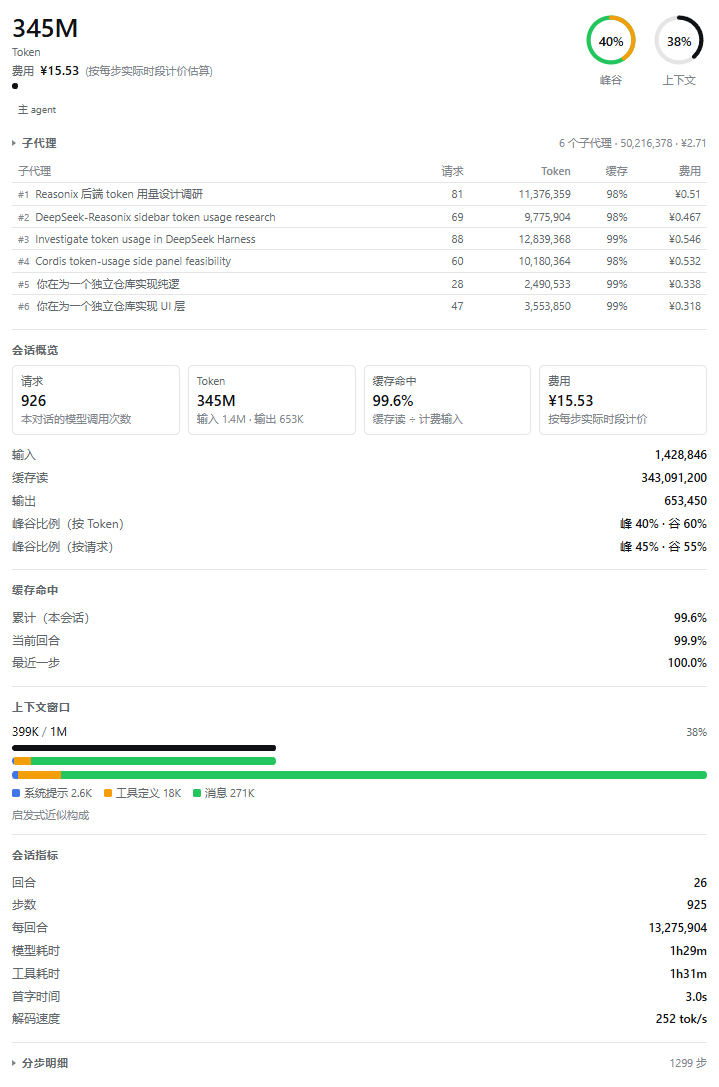
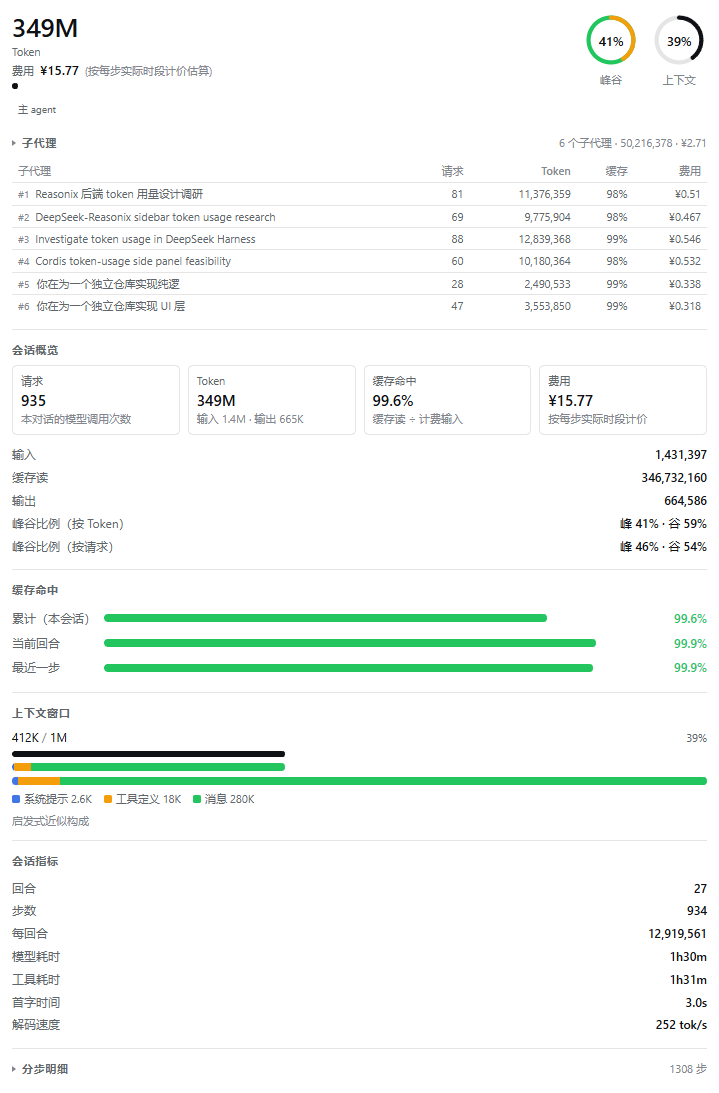
feat: cache-hit bars on a power scale with status-coloured rates

diff --git a/dist/client.js b/dist/client.js
@@ -1,4 +1,4 @@
-/* dsh-usage-insights v0.10.0 — generated by scripts/build.mjs; do not edit. */
+/* dsh-usage-insights v0.10.1 — generated by scripts/build.mjs; do not edit. */
 window.__ModuleLoader__.load({
   id: "dsh-usage-insights",
   factory(require) {
@@ -1035,6 +1035,19 @@ function formatBeijingTime(atMs) {
   return `${pad2(month)}-${pad2(day)} ${pad2(hours)}:${pad2(minutes)}`;
 }
 
+// src/lib/hit-scale.ts
+var HIT_SCALE_EXPONENT = 0.3;
+function hitBarRatio(ratio) {
+  const clamped = Math.min(1, Math.max(0, ratio));
+  return 1 - (1 - clamped) ** HIT_SCALE_EXPONENT;
+}
+function hitLevel(ratio) {
+  if (ratio === null) return "none";
+  if (ratio >= 0.9) return "good";
+  if (ratio >= 0.7) return "warn";
+  return "bad";
+}
+
 // src/client/styles.ts
 var css2 = `
 .dsu-root {
@@ -1309,6 +1322,75 @@ var css2 = `
 .dsu-stat-hint {
   font-size: 11px;
   line-height: 1.35;
+  color: var(--dsw-alias-label-tertiary);
+}
+
+.dsu-hits {
+  display: flex;
+  flex-direction: column;
+}
+
+.dsu-hit {
+  display: flex;
+  align-items: center;
+  gap: 8px;
+  min-width: 0;
+  padding: 4px 0;
+}
+
+.dsu-hit-label {
+  flex: 0 0 auto;
+  min-width: 84px;
+  color: var(--dsw-alias-label-secondary);
+}
+
+.dsu-hit-track {
+  flex: 1 1 auto;
+  min-width: 0;
+  height: 8px;
+  overflow: hidden;
+  border-radius: 999px;
+  background: var(--dsw-alias-bg-layer-2);
+}
+
+.dsu-hit-fill {
+  height: 100%;
+  border-radius: 999px;
+}
+
+.dsu-hit-fill[data-level='good'] {
+  background: var(--dsw-alias-state-success-primary);
+}
+
+.dsu-hit-fill[data-level='warn'] {
+  background: var(--dsw-alias-state-warn-primary);
+}
+
+.dsu-hit-fill[data-level='bad'] {
+  background: var(--dsw-alias-state-error-primary);
+}
+
+.dsu-hit-value {
+  flex: 0 0 auto;
+  min-width: 46px;
+  text-align: right;
+  font-variant-numeric: tabular-nums;
+  font-weight: 500;
+}
+
+.dsu-hit-value[data-level='good'] {
+  color: var(--dsw-alias-state-success-primary);
+}
+
+.dsu-hit-value[data-level='warn'] {
+  color: var(--dsw-alias-state-warn-label);
+}
+
+.dsu-hit-value[data-level='bad'] {
+  color: var(--dsw-alias-state-error-primary);
+}
+
+.dsu-hit-value[data-level='none'] {
   color: var(--dsw-alias-label-tertiary);
 }
 
@@ -1846,6 +1928,15 @@ function ProgressBar(props) {
   const ratio = props.ratio === null ? 0 : Math.min(1, Math.max(0, props.ratio));
   return /* @__PURE__ */ (0, import_jsx_runtime2.jsx)("div", { className: "dsu-progress", role: "img", "aria-label": formatPercent(ratio), children: /* @__PURE__ */ (0, import_jsx_runtime2.jsx)("div", { className: "dsu-progress-fill", style: { width: `${ratio * 100}%` } }) });
 }
+function HitBar(props) {
+  const level = hitLevel(props.ratio);
+  const width = props.ratio === null ? 0 : hitBarRatio(props.ratio);
+  return /* @__PURE__ */ (0, import_jsx_runtime2.jsxs)("div", { className: "dsu-hit", children: [
+    /* @__PURE__ */ (0, import_jsx_runtime2.jsx)("span", { className: "dsu-hit-label", children: props.label }),
+    /* @__PURE__ */ (0, import_jsx_runtime2.jsx)("div", { className: "dsu-hit-track", children: props.ratio !== null && /* @__PURE__ */ (0, import_jsx_runtime2.jsx)("div", { className: "dsu-hit-fill", "data-level": level, style: { width: `${width * 100}%` } }) }),
+    /* @__PURE__ */ (0, import_jsx_runtime2.jsx)("span", { className: "dsu-hit-value", "data-level": level, children: props.ratio === null ? "\u2014" : formatPercent(props.ratio) })
+  ] });
+}
 function CompositionProgress(props) {
   const ratio = props.ratio === null ? 0 : Math.min(1, Math.max(0, props.ratio));
   const description = props.segments.map((segment) => `${segment.label} ${formatTokens(segment.tokens)}`).join(" \xB7 ");
@@ -2165,7 +2256,6 @@ function SessionPanel(props) {
   ];
   const avgPerTurn = view.turns > 0 ? Math.round(view.totalTokens / view.turns) : 0;
   const contextLabel = context.ratio === null ? "\u2014" : formatPercent(context.ratio);
-  const percentOf = (ratio) => ratio === null ? "\u2014" : formatPercent(ratio);
   const peakShare = view.bandShare === null ? null : peakTokenShare(view.bandShare);
   const peakRingLabel = peakShare === null ? "\u2014" : formatPercent(peakShare);
   return /* @__PURE__ */ (0, import_jsx_runtime4.jsxs)("div", { className: "dsu-root", children: [
@@ -2275,10 +2365,10 @@ function SessionPanel(props) {
         ] })
       ] })
     ] }),
-    view.hasUsage && /* @__PURE__ */ (0, import_jsx_runtime4.jsx)(Section, { title: t("section.cacheHit"), children: /* @__PURE__ */ (0, import_jsx_runtime4.jsxs)("div", { className: "dsu-rows", children: [
-      /* @__PURE__ */ (0, import_jsx_runtime4.jsx)(Row, { label: t("cacheHit.total"), value: percentOf(view.cacheHits.total) }),
-      /* @__PURE__ */ (0, import_jsx_runtime4.jsx)(Row, { label: t("cacheHit.turn"), value: percentOf(view.cacheHits.turn) }),
-      /* @__PURE__ */ (0, import_jsx_runtime4.jsx)(Row, { label: t("cacheHit.step"), value: percentOf(view.cacheHits.step) })
+    view.hasUsage && /* @__PURE__ */ (0, import_jsx_runtime4.jsx)(Section, { title: t("section.cacheHit"), children: /* @__PURE__ */ (0, import_jsx_runtime4.jsxs)("div", { className: "dsu-hits", children: [
+      /* @__PURE__ */ (0, import_jsx_runtime4.jsx)(HitBar, { label: t("cacheHit.total"), ratio: view.cacheHits.total }),
+      /* @__PURE__ */ (0, import_jsx_runtime4.jsx)(HitBar, { label: t("cacheHit.turn"), ratio: view.cacheHits.turn }),
+      /* @__PURE__ */ (0, import_jsx_runtime4.jsx)(HitBar, { label: t("cacheHit.step"), ratio: view.cacheHits.step })
     ] }) }),
     (view.hasUsage || hasContext) && /* @__PURE__ */ (0, import_jsx_runtime4.jsx)(Section, { title: t("section.context"), children: context.windowTokens === null ? /* @__PURE__ */ (0, import_jsx_runtime4.jsx)(InlineMessage, { children: t("context.capacityUnknown") }) : /* @__PURE__ */ (0, import_jsx_runtime4.jsxs)("div", { className: "dsu-ctx", children: [
       context.usedTokens === null ? /* @__PURE__ */ (0, import_jsx_runtime4.jsx)(InlineMessage, { children: t("context.notReported") }) : /* @__PURE__ */ (0, import_jsx_runtime4.jsxs)("div", { className: "dsu-ctx-line", children: [

diff --git a/src/client/SessionPanel.tsx b/src/client/SessionPanel.tsx
@@ -18,8 +18,8 @@ import {
 } from '../lib/format'
 import { peakTokenShare } from '../lib/band-share.ts'
 import {
-  bandShareText, ChildAgentsTable, CompositionBar, CompositionProgress, InlineMessage, ProgressBar, Ring, Row,
-  Section, Stat, StepTable, StyleTag,
+  bandShareText, ChildAgentsTable, CompositionBar, CompositionProgress, HitBar, InlineMessage, ProgressBar,
+  Ring, Row, Section, Stat, StepTable, StyleTag,
 } from './components'
 import type { CompositionSegment } from './components'
 
@@ -76,7 +76,6 @@ export function SessionPanel(props: SessionPanelProps): JSX.Element {
     ]
   const avgPerTurn = view.turns > 0 ? Math.round(view.totalTokens / view.turns) : 0
   const contextLabel = context.ratio === null ? '—' : formatPercent(context.ratio)
-  const percentOf = (ratio: number | null): string => ratio === null ? '—' : formatPercent(ratio)
   const peakShare = view.bandShare === null ? null : peakTokenShare(view.bandShare)
   const peakRingLabel = peakShare === null ? '—' : formatPercent(peakShare)
   return (
@@ -206,10 +205,10 @@ export function SessionPanel(props: SessionPanelProps): JSX.Element {
       )}
       {view.hasUsage && (
         <Section title={t('section.cacheHit')}>
-          <div className="dsu-rows">
-            <Row label={t('cacheHit.total')} value={percentOf(view.cacheHits.total)} />
-            <Row label={t('cacheHit.turn')} value={percentOf(view.cacheHits.turn)} />
-            <Row label={t('cacheHit.step')} value={percentOf(view.cacheHits.step)} />
+          <div className="dsu-hits">
+            <HitBar label={t('cacheHit.total')} ratio={view.cacheHits.total} />
+            <HitBar label={t('cacheHit.turn')} ratio={view.cacheHits.turn} />
+            <HitBar label={t('cacheHit.step')} ratio={view.cacheHits.step} />
           </div>
         </Section>
       )}

diff --git a/src/client/components.tsx b/src/client/components.tsx
@@ -9,6 +9,7 @@
 import type { JSX, ReactNode } from 'react'
 import type { BandShareView, ChildAgentView, DayTotal, StepDetailView, Translate } from './contract'
 import { peakRequestShare, peakTokenShare } from '../lib/band-share.ts'
+import { hitBarRatio, hitLevel } from '../lib/hit-scale.ts'
 import { formatBeijingTime, formatCount, formatMoneyRange, formatPercent, formatTokenCount, formatTokens } from '../lib/format'
 import { css } from './styles'
 
@@ -87,6 +88,33 @@ export function ProgressBar(props: { ratio: number | null }): JSX.Element {
   return (
     <div className="dsu-progress" role="img" aria-label={formatPercent(ratio)}>
       <div className="dsu-progress-fill" style={{ width: `${ratio * 100}%` }} />
+    </div>
+  )
+}
+
+/**
+ * Cache-hit bar with its percentage.
+ *
+ * The fill uses the non-linear scale from `hit-scale` so rates above 90% keep
+ * their differences visible; the percentage carries the status colour.
+ *
+ * @param props - row label and the hit ratio, or null without usage.
+ * @returns the rendered bar.
+ */
+export function HitBar(props: { label: string; ratio: number | null }): JSX.Element {
+  const level = hitLevel(props.ratio)
+  const width = props.ratio === null ? 0 : hitBarRatio(props.ratio)
+  return (
+    <div className="dsu-hit">
+      <span className="dsu-hit-label">{props.label}</span>
+      <div className="dsu-hit-track">
+        {props.ratio !== null && (
+          <div className="dsu-hit-fill" data-level={level} style={{ width: `${width * 100}%` }} />
+        )}
+      </div>
+      <span className="dsu-hit-value" data-level={level}>
+        {props.ratio === null ? '—' : formatPercent(props.ratio)}
+      </span>
     </div>
   )
 }

diff --git a/src/client/styles.ts b/src/client/styles.ts
@@ -282,6 +282,75 @@ export const css = `
   color: var(--dsw-alias-label-tertiary);
 }
 
+.dsu-hits {
+  display: flex;
+  flex-direction: column;
+}
+
+.dsu-hit {
+  display: flex;
+  align-items: center;
+  gap: 8px;
+  min-width: 0;
+  padding: 4px 0;
+}
+
+.dsu-hit-label {
+  flex: 0 0 auto;
+  min-width: 84px;
+  color: var(--dsw-alias-label-secondary);
+}
+
+.dsu-hit-track {
+  flex: 1 1 auto;
+  min-width: 0;
+  height: 8px;
+  overflow: hidden;
+  border-radius: 999px;
+  background: var(--dsw-alias-bg-layer-2);
+}
+
+.dsu-hit-fill {
+  height: 100%;
+  border-radius: 999px;
+}
+
+.dsu-hit-fill[data-level='good'] {
+  background: var(--dsw-alias-state-success-primary);
+}
+
+.dsu-hit-fill[data-level='warn'] {
+  background: var(--dsw-alias-state-warn-primary);
+}
+
+.dsu-hit-fill[data-level='bad'] {
+  background: var(--dsw-alias-state-error-primary);
+}
+
+.dsu-hit-value {
+  flex: 0 0 auto;
+  min-width: 46px;
+  text-align: right;
+  font-variant-numeric: tabular-nums;
+  font-weight: 500;
+}
+
+.dsu-hit-value[data-level='good'] {
+  color: var(--dsw-alias-state-success-primary);
+}
+
+.dsu-hit-value[data-level='warn'] {
+  color: var(--dsw-alias-state-warn-label);
+}
+
+.dsu-hit-value[data-level='bad'] {
+  color: var(--dsw-alias-state-error-primary);
+}
+
+.dsu-hit-value[data-level='none'] {
+  color: var(--dsw-alias-label-tertiary);
+}
+
 .dsu-rows {
   display: flex;
   flex-direction: column;

diff --git a/tests/hit-scale.test.ts b/tests/hit-scale.test.ts
@@ -1,0 +1,39 @@
+import { describe, expect, it } from 'vitest'
+import { HIT_SCALE_EXPONENT, hitBarRatio, hitLevel } from '../src/lib/hit-scale.ts'
+
+describe('hitBarRatio', () => {
+  it('keeps both endpoints', () => {
+    expect(hitBarRatio(0)).toBe(0)
+    expect(hitBarRatio(1)).toBe(1)
+  })
+
+  it('clamps values outside the ratio range', () => {
+    expect(hitBarRatio(-1)).toBe(0)
+    expect(hitBarRatio(2)).toBe(1)
+  })
+
+  it('spreads the high end of the range', () => {
+    expect(hitBarRatio(0.9)).toBeCloseTo(1 - 0.1 ** HIT_SCALE_EXPONENT, 6)
+    expect(hitBarRatio(0.99)).toBeCloseTo(1 - 0.01 ** HIT_SCALE_EXPONENT, 6)
+    // 99% and 99.9% stay visibly apart instead of collapsing at the bar's end.
+    expect(hitBarRatio(0.999) - hitBarRatio(0.99)).toBeGreaterThan(0.1)
+  })
+
+  it('stays monotonic across the range', () => {
+    expect(hitBarRatio(0.5)).toBeLessThan(hitBarRatio(0.7))
+    expect(hitBarRatio(0.7)).toBeLessThan(hitBarRatio(0.9))
+    expect(hitBarRatio(0.9)).toBeLessThan(hitBarRatio(0.99))
+  })
+})
+
+describe('hitLevel', () => {
+  it('classifies one rate into its status band', () => {
+    expect(hitLevel(0.99)).toBe('good')
+    expect(hitLevel(0.9)).toBe('good')
+    expect(hitLevel(0.89)).toBe('warn')
+    expect(hitLevel(0.7)).toBe('warn')
+    expect(hitLevel(0.69)).toBe('bad')
+    expect(hitLevel(0.4)).toBe('bad')
+    expect(hitLevel(null)).toBe('none')
+  })
+})

diff --git a/src/lib/hit-scale.ts b/src/lib/hit-scale.ts
@@ -1,0 +1,39 @@
+/**
+ * Scale and status levels for the cache-hit bars.
+ *
+ * Cache hits usually sit above 90%, where a linear bar hides the difference
+ * between 99% and 99.9%. The bar therefore uses a power scale with an exponent
+ * below one: the high end of the range keeps its spread while the low end is
+ * compressed, so both a 40% miss-heavy turn and a 99.9% cached request stay
+ * readable on the same bar.
+ */
+
+/** Power used by {@link hitBarRatio}; smaller values spread the high end wider. */
+export const HIT_SCALE_EXPONENT = 0.3
+
+/** Status band of one cache-hit rate. */
+export type HitLevel = 'good' | 'warn' | 'bad' | 'none'
+
+/**
+ * Map a cache-hit ratio onto the bar's width.
+ *
+ * @param ratio - cache reads over billed input, clamped to [0, 1].
+ * @returns the filled fraction of the bar's width.
+ */
+export function hitBarRatio(ratio: number): number {
+  const clamped = Math.min(1, Math.max(0, ratio))
+  return 1 - (1 - clamped) ** HIT_SCALE_EXPONENT
+}
+
+/**
+ * Classify a cache-hit ratio for its status colour.
+ *
+ * @param ratio - cache reads over billed input, or null without usage.
+ * @returns `good` at 90% and above, `warn` at 70% and above, `bad` below that.
+ */
+export function hitLevel(ratio: number | null): HitLevel {
+  if (ratio === null) return 'none'
+  if (ratio >= 0.9) return 'good'
+  if (ratio >= 0.7) return 'warn'
+  return 'bad'
+}

diff --git a/README.md b/README.md
@@ -15,7 +15,7 @@
 ### 用量（当前对话）
 
 - **会话概览**：请求数、Token 总量、输入 / 缓存读 / 输出（缓存写仅在提供商上报显式缓存写入时显示）、缓存命中率、费用，以及峰谷比例（按 Token 与按请求各一行）。
-- **缓存命中**：独立区块给出三个口径——本会话累计、当前回合、最近一步的缓存命中率。
+- **缓存命中**：三条横条分别显示本会话累计、当前回合、最近一步的缓存命中率。条形使用幂次刻度（`1-(1-r)^0.3`）放大 90% 以上区间的差异，百分比数字按状态着色：≥90% 绿色、70–90% 琥珀色、<70% 红色。
 - **Token 显示**：会话概览的 Token 卡片（含其输入/输出提示）使用 `K` / `M` / `G` 紧凑单位；会话概览的其余行、会话指标、子代理明细与分步明细显示千分位精确整数（如 `275,123,456`）；页头总量、上下文窗口与用量汇总也使用紧凑单位，悬停数字可看到精确值。
 - **上下文窗口**：第一行显示已用 / 容量与占用百分比；第二行是按占用比例填充的进度条；第三行是「占用 + 构成」组合条（宽度为占用比例，内部按三色分段）；第四行是整窗构成条；条下是带颜色的图例与各段数值。
 - **峰谷圈图**：上下文圈图左侧另有一个圈图，绿色轨道表示空闲、橙色弧线表示高峰，中心显示高峰占比（按 Token）。

diff --git a/README.EN.md b/README.EN.md
@@ -20,8 +20,9 @@ The plugin adds two right-Sidebar pages.
 - **Session overview**: request count, total tokens, input / cache read / output bucket rows
   (the cache-write row appears only when a provider reports explicit cache creation),
   cache-hit rate, cost, and the peak/off-peak share (one row by tokens, one by requests).
-- **Cache hit**: its own section with three scopes — cumulative for this conversation, the
-  current turn, and the latest request.
+- **Cache hit**: three bars for the cumulative, current-turn and latest-request hit rates. The
+  fill uses a power scale (`1-(1-r)^0.3`) so the region above 90% keeps its differences, and
+  the percentage is coloured by status: green at 90% or above, amber from 70%, red below.
 - **Token figures**: the overview's Token card (including its input/output hint) uses compact
   `K` / `M` / `G` units; the remaining overview rows, session metrics, subagent detail and
   request ledger show exact grouped integers (for example `275,123,456`); the header total,
